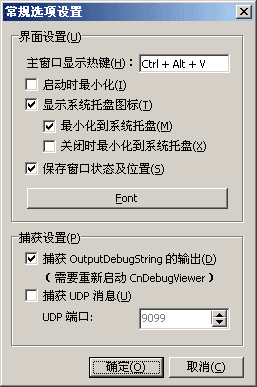
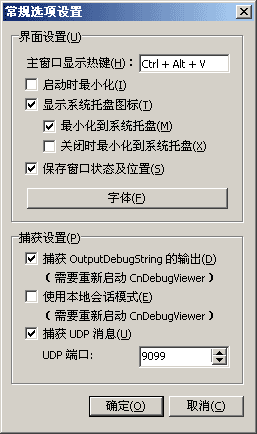
* [Help Files] Update Help Files and Snapshots for CnDebugViewer.

Changed region(s): [[0.0, 0.0, 0.9961, 0.8372], [0.0311, 0.7752, 0.965, 0.9922]]

diff --git a/Help/CnWizards_ENU/debug/cndebugviewer.htm b/Help/CnWizards_ENU/debug/cndebugviewer.htm
@@ -90,6 +90,7 @@
   <li><p class="text"><b>Save Window State/Position</b>: If checked, CnDebugViewer will save the window state and position when exiting, and restore it when next running.</li>
     <li><p class="text"><b>Font</b>: Change display font of messsage, details and timing area.</li>
     <li><p class="text"><b>Capture "OutputDebugString" API</b>: Whether capture the output of debug API <b>OutputDebugString</b>. Default is not. To make this change into effect, a restarting of CnDebugViewer needed.</li>
+    <li><p class="text"><b>Use Local Session Mode</b>: If checked, CnDebugViewer will use "Local" objects to get the debug message instead of "Global". It depends on CnDebug.pas use Local mode or Global mode. Changes to this option will take effects after restarting CnDebugViewer.</li>
     <li><p class="text"><b>OK</b>: Save settings and close this dialog.</li>
     <li><p class="text"><b>Cancel</b>: Close this dialog and do nothing.</li>
   </blockquote>
